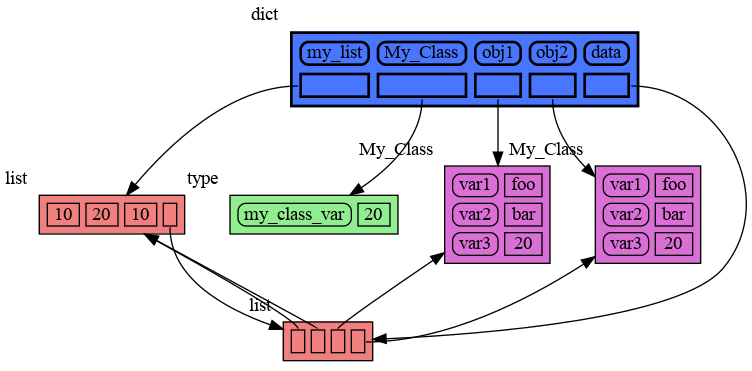
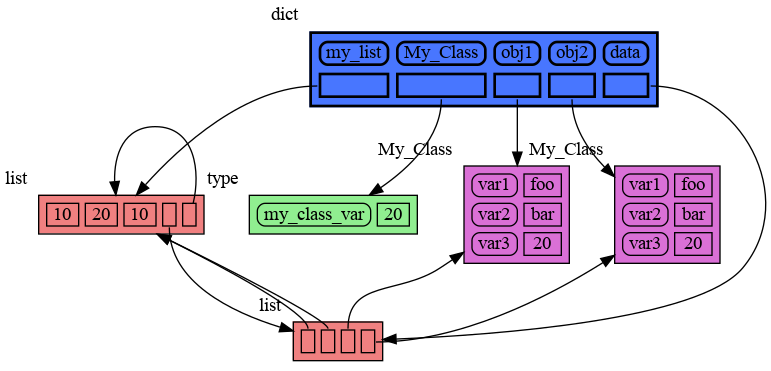
update

diff --git a/images/example4.py b/images/example4.py
@@ -13,7 +13,8 @@ obj2 = My_Class()
 
 data=[my_list, my_list, obj1, obj2]
 
-my_list.append(data) # recursive reference
+my_list.append(data)
+my_list.append(my_list) # recursive reference
 
 import memory_graph
 memory_graph.graphviz_nodes.linear_layout_vertical = False           # draw lists,tuples,sets,... horizontally

diff --git a/images/example3.py b/images/example3.py
@@ -15,6 +15,7 @@ obj2 = My_Class()
 
 data=[my_list, my_list, obj1, obj2]
 
-my_list.append(data) # recursive reference
+my_list.append(data)
+my_list.append(my_list) # recursive reference
 
 memory_graph.render( locals(), 'example3.png' )

diff --git a/README.md b/README.md
@@ -154,7 +154,7 @@ def d(data=None, log=True, graph=True, block=True):
 
 To print to a log file instead of standard output us:
 ```python
-memory_graph.log_file = open("log_file.txt","w")
+memory_graph.log_file = open("log_file.txt", "w")
 ```
 
 ### Watchpoint in Debugger ###
@@ -428,7 +428,7 @@ Configure what nodes are created based on reading the given data structure:
 
 
 ### Config Examples ###
-This example shows a class variable and some recursive references.
+This example shows a class with a class variable and has some recursive references.
 ```python
 import memory_graph
 my_list = [10, 20, 10]
@@ -446,7 +446,8 @@ obj2 = My_Class()
 
 data=[my_list, my_list, obj1, obj2]
 
-my_list.append(data) # recursive reference
+my_list.append(data)
+my_list.append(my_list) # recursive reference
 
 memory_graph.show(locals())
 ```
